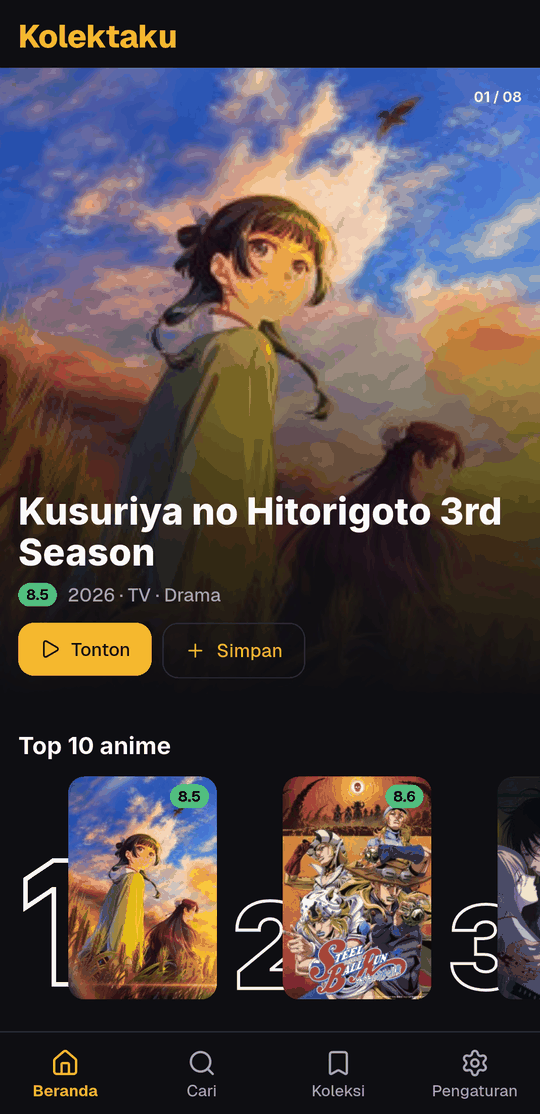
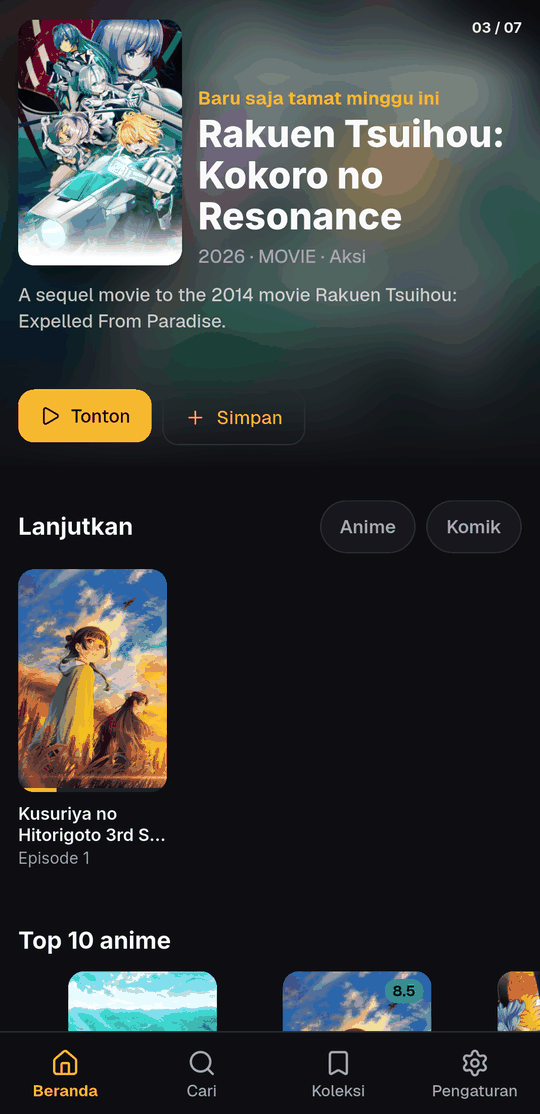
docs: update the readme gallery with the new home, collection and player screens

diff --git a/README.md b/README.md
@@ -23,18 +23,18 @@ Pembaruan berikutnya tidak perlu mengunduh manual: aplikasi memeriksa rilis baru
 
 <table align="center">
   <tr>
-    <td align="center"><img src="media/screenshots/beranda.png" alt="Beranda" width="240"><br><sub>Beranda</sub></td>
+    <td align="center"><img src="media/screenshots/beranda.png" alt="Beranda dengan hero berkategori" width="240"><br><sub>Beranda</sub></td>
+    <td align="center"><img src="media/screenshots/koleksi.png" alt="Koleksi dengan pengalih anime dan komik" width="240"><br><sub>Koleksi</sub></td>
     <td align="center"><img src="media/screenshots/cari-studio.png" alt="Pencarian otomatis mengenali studio" width="240"><br><sub>Cari, studio dikenali otomatis</sub></td>
-    <td align="center"><img src="media/screenshots/filter.png" alt="Filter genre, format, dan status" width="240"><br><sub>Filter</sub></td>
   </tr>
   <tr>
+    <td align="center"><img src="media/screenshots/filter.png" alt="Filter genre, format, dan status" width="240"><br><sub>Filter</sub></td>
     <td align="center"><img src="media/screenshots/detail.png" alt="Detail anime dengan pilihan sumber" width="240"><br><sub>Detail dan ganti sumber</sub></td>
     <td align="center"><img src="media/screenshots/info.png" alt="Info yang bisa diklik" width="240"><br><sub>Info yang bisa diklik</sub></td>
-    <td align="center"><img src="media/screenshots/nonton.png" alt="Halaman menonton" width="240"><br><sub>Menonton</sub></td>
   </tr>
   <tr>
+    <td align="center"><img src="media/screenshots/pemutar.png" alt="Pengaturan pemutar" width="240"><br><sub>Pengaturan pemutar</sub></td>
     <td align="center"><img src="media/screenshots/subtitle.png" alt="Pengaturan subtitle dengan pratinjau" width="240"><br><sub>Subtitle dengan pratinjau</sub></td>
-    <td align="center"><img src="media/screenshots/pengaturan.png" alt="Pengaturan" width="240"><br><sub>Pengaturan</sub></td>
     <td align="center"><img src="media/screenshots/cari-dari-gambar.png" alt="Cari dari gambar" width="240"><br><sub>Cari dari gambar</sub></td>
   </tr>
 </table>
